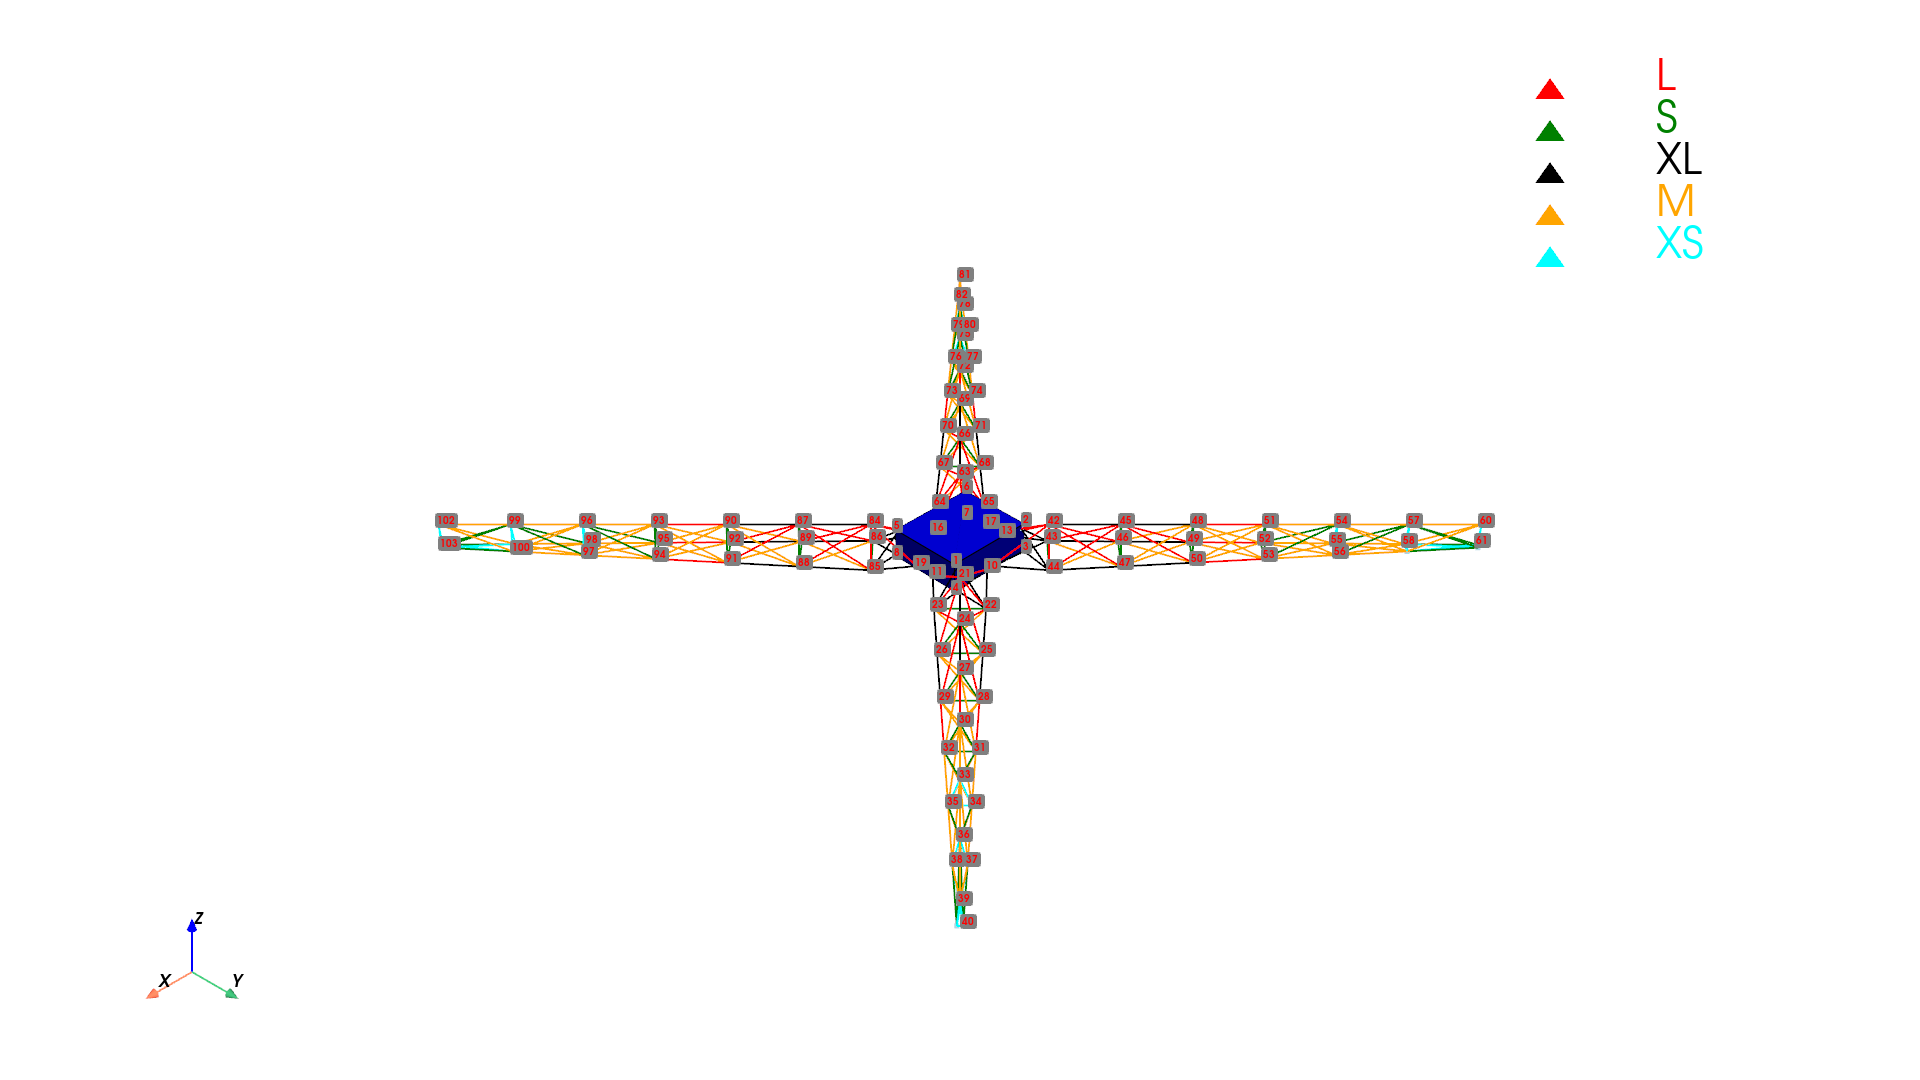
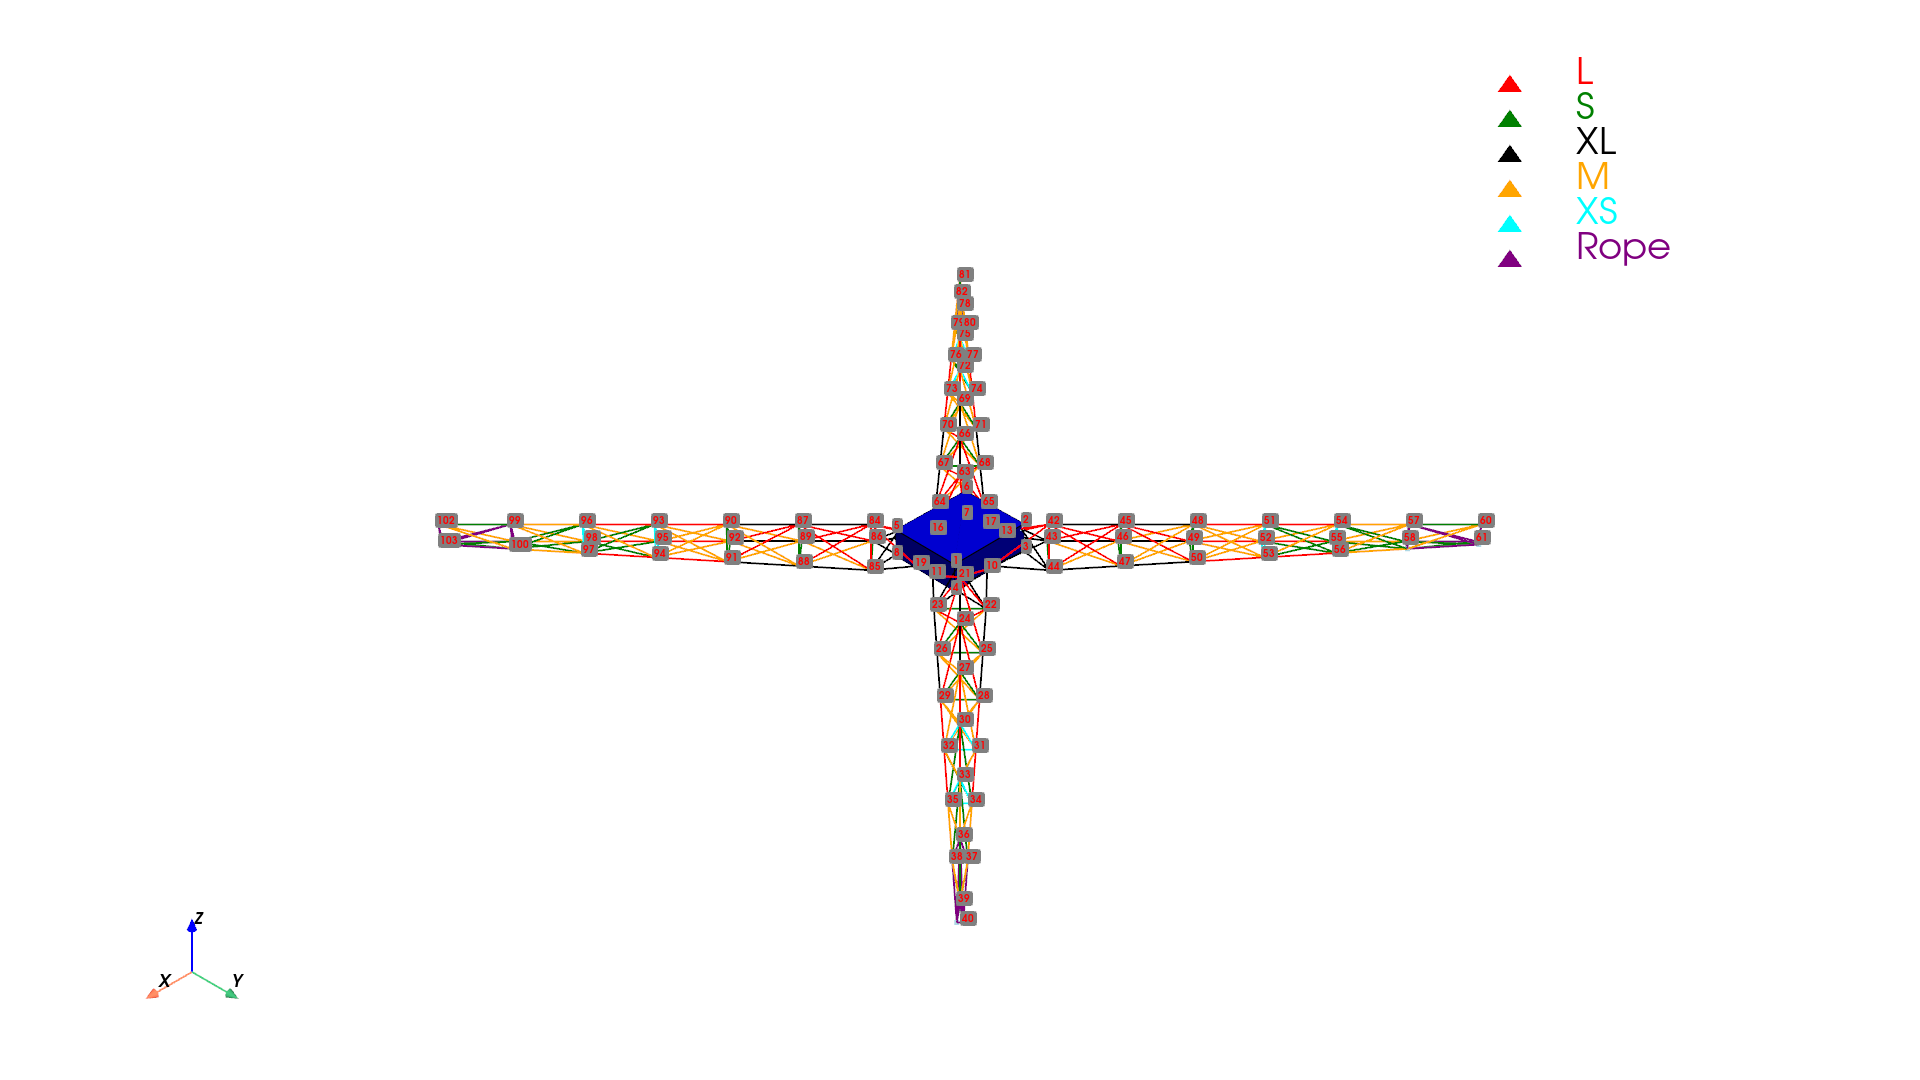
avance

diff --git a/CODIGO/ENTREGA_3/modelo_1.py b/CODIGO/ENTREGA_3/modelo_1.py
@@ -14,12 +14,12 @@ fluencia_fibra_carbono = 2020e6    # Límite de fluencia de la fibra de carbono 
 FS = 2                                # Factor de seguridad
 
 # Dimensiones de las secciones de las barras
-D1_Rope, D2_Rope = 0.004, 0.000
+D1_Rope, D2_Rope = 0.015, 0.012
 D1_ExtraS, D2_ExtraS = 0.022, 0.021   # Nueva sección ExtraS
-D1_Small, D2_Small = 0.033, 0.024
+D1_Small, D2_Small = 0.033, 0.03
 D1_Medium, D2_Medium = 0.037, 0.032
 D1_Large, D2_Large = 0.041, 0.035
-D1_ExtraL, D2_ExtraL = 0.0417, 0.03   # Nueva sección ExtraL
+D1_ExtraL, D2_ExtraL = 0.0425, 0.03   # Nueva sección ExtraL
 A_Rope, A_ExtraS, A_Small, A_Medium, A_Large, A_ExtraL = None, None, None, None, None, None
 I_Rope, I_ExtraS, I_Small, I_Medium, I_Large, I_ExtraL = None, None, None, None, None, None
 
@@ -29,7 +29,7 @@ alto_barras = 3
 largo_inicial_barras = 7
 largo_barras = 33.96
 espaciamiento = 5.66
-delta_alto = 0.15
+delta_alto = 0.2
 delta_ancho = 0.3
 
 # Listas y diccionarios globales
@@ -94,6 +94,7 @@ def generar_elemento_axial(nodo_1, nodo_2, Tamaño):
     """Genera un elemento axial (barra) entre dos nodos."""
     global barra_actual, A_ExtraS, A_Small, A_Medium, A_Large, A_ExtraL, gamma_fibra_carbono
     area_dict = {
+        'Rope': A_Rope,
         'XS': A_ExtraS,
         'S': A_Small,
         'M': A_Medium,
@@ -146,6 +147,7 @@ def conectar_capas(nodos_capa_1, nodos_capa_2, Tamaño_Longitudinal, Tamaño_dia
     """Conecta dos capas de nodos con elementos longitudinales y diagonales."""
     global barra_actual, A_ExtraS, A_Small, A_Medium, A_Large, A_ExtraL, gamma_fibra_carbono
     area_dict = {
+        'Rope': A_Rope,
         'XS': A_ExtraS,
         'S': A_Small,
         'M': A_Medium,
@@ -213,23 +215,40 @@ def alargar_barras(alpha, nodos_barra):
         # Generar elementos axiales (Construir los triangulos)
         for i in range(len(nodos_barra[-1])):
             j = (i + 1) % len(nodos_barra[-1])
-            if a < (num_segmentos / 2):
-
+            if a == 0:
                 generar_elemento_axial(nodos_barra[-1][i], nodos_barra[-1][j], 'S')
-            else:
+
+            elif a == 1:
+                generar_elemento_axial(nodos_barra[-1][i], nodos_barra[-1][j], 'S')
+
+            elif a == 2:
                 generar_elemento_axial(nodos_barra[-1][i], nodos_barra[-1][j], 'XS')
+
+            elif a == 3:
+                generar_elemento_axial(nodos_barra[-1][i], nodos_barra[-1][j], 'XS')
+
+            elif a == 4:
+                generar_elemento_axial(nodos_barra[-1][i], nodos_barra[-1][j], 'Rope')
+
+            elif a == 5:
+                generar_elemento_axial(nodos_barra[-1][i], nodos_barra[-1][j], 'Rope')
+
+            
         # Conectar capas según la posición
         if a == 0:
             conectar_capas(nodos_barra[-2], nodos_barra[-1], 'XL', 'M', None, 'L', 'L')
         elif a == 1:
             conectar_capas(nodos_barra[-2], nodos_barra[-1], 'XL', 'M', None, 'L')
-        elif a < (num_segmentos / 2):
+        elif a == 2:
             conectar_capas(nodos_barra[-2], nodos_barra[-1], 'L', 'M')
-        elif a < (3 * num_segmentos / 4):
-            conectar_capas(nodos_barra[-2], nodos_barra[-1], 'M', 'M', None, None, 'S')
 
-        else:
-            conectar_capas(nodos_barra[-2], nodos_barra[-1], 'S', 'XS', 'M', 'S', 'M')
+        elif a == 3:
+            conectar_capas(nodos_barra[-2], nodos_barra[-1], 'L', 'S', None, 'S', 'M')
+        elif a ==4:
+            conectar_capas(nodos_barra[-2], nodos_barra[-1], 'M', 'S', None,  'S', 'M')
+
+        elif a == 5:
+            conectar_capas(nodos_barra[-2], nodos_barra[-1], 'Rope', 'S', 'S', 'S', 'M')
 
 # Funciones para definir paneles y calcular áreas
 def nodos_paneles(nodos_barra_A, nodos_barra_B):

diff --git a/CODIGO/ENTREGA_3/verificar_diseño_profe.py b/CODIGO/ENTREGA_3/verificar_diseño_profe.py
@@ -310,6 +310,7 @@ for e, nodos, props in zip(elements_tags, elements_connectivities, elements_sect
 
     check_pandeo_this = FS*F[e] < Pcr
     if not check_pandeo_this:
+
         check_pandeo = False
 
     # check resistencia
